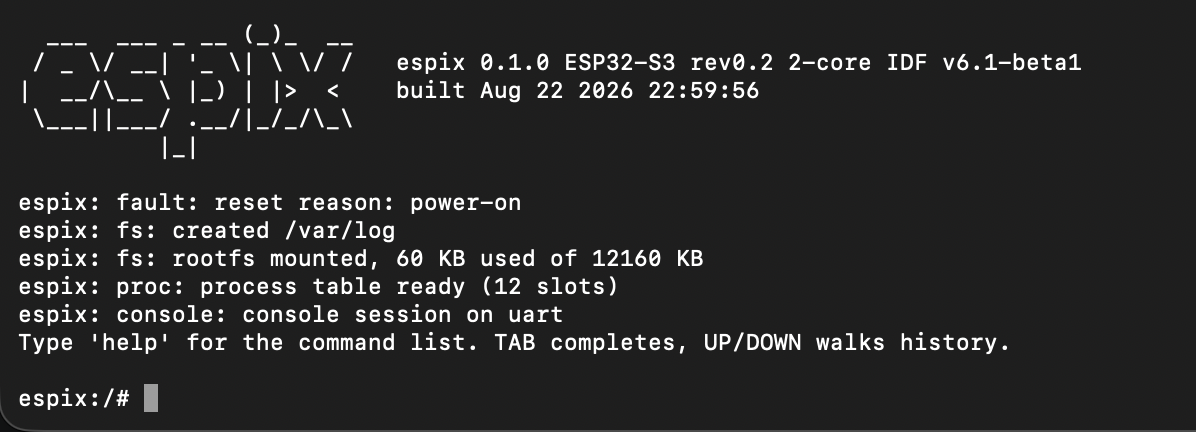
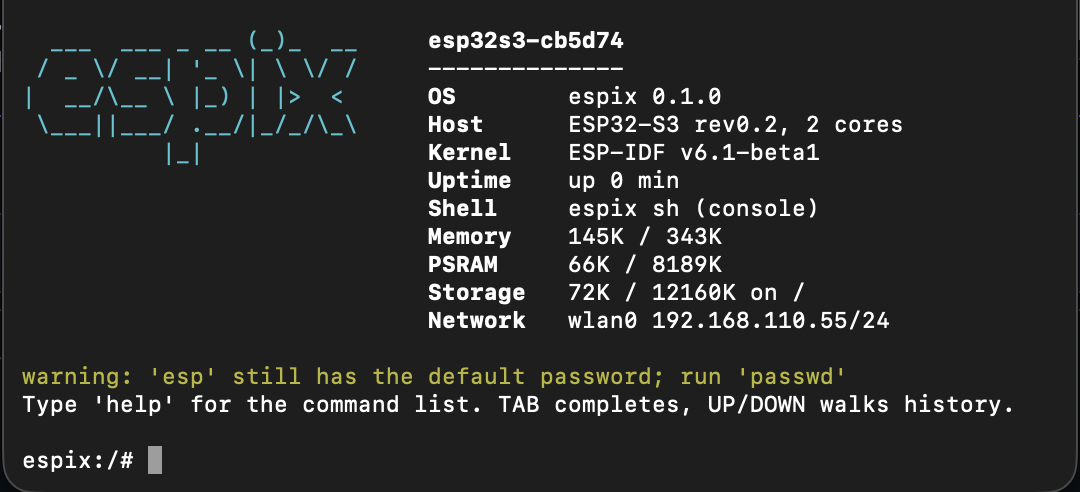
readme: document networking, SSH and how to actually log in
The README predated both the WiFi and SSH milestones, so it described a
device you could only reach over a serial cable and never said how to get
onto a network or what credentials to use.

Adds a First boot section covering the parts a newcomer cannot guess: that
`wifi connect` both associates and persists to /etc/wifi.conf so later boots
reconnect on their own; that the hostname is derived from the MAC; that the
shipped account is esp/espix and how to change it; and where the host key
lives so its fingerprint can be checked on first connect.

States plainly what the SSH server is. It is hand-rolled — the only registry
component is GPL-or-commercial, which would have set the licence of every
firmware image built on espix — and it has not been audited. Fine on a
trusted LAN, not fine port-forwarded, and the host private key sits in
plaintext on LittleFS. Better said here than discovered later.

Status and roadmap catch up: ~23 commands is now ~32, networking and a shell
over it are done, and the reentrant line editor is named as the next item
along with why linenoise cannot be shared between the two transports.

The banner now shows the real greeting, so the duplicate copy of it in the
prose is dropped and the alt text describes the image.

Changed region(s): [[0.0, 0.0602, 0.9472, 0.8426], [0.0, 0.8727, 1.0, 1.0], [0.9778, 0.0, 1.0, 0.9329]]

diff --git a/README.md b/README.md
@@ -1,5 +1,5 @@
 <p align="center">
-  <img src="docs/banner.png" alt="Repository Header Banner" width="80%" max-width="800px">
+  <img src="docs/banner.png" alt="espix login greeting: ASCII logo beside OS, host, uptime, memory, storage and network" width="80%" max-width="800px">
 </p>
 
 # espix
@@ -18,11 +18,20 @@ environment purpose-built for ESP-IDF.
 
 Early, but running on hardware. Verified on an ESP32-S3 (16MB flash,
 8MB octal PSRAM) with ESP-IDF v6.1-beta1: LittleFS mounted as the real
-`/`, a transport-agnostic shell with ~23 commands, a process table, and
+`/`, a transport-agnostic shell with ~32 commands, a process table, and
 — the point of the exercise — an app cross-compiled on a PC, deployed
 as a file, and loaded and executed at runtime by the ELF loader, with
 argv and an exit status. Files created on the device survive a reboot
 and a firmware reflash.
+
+Networking works: WiFi station comes up as `wlan0`, takes a DHCP lease,
+installs a default route, and `ping` resolves names. On top of it runs an
+SSH server, so `ssh esp@esp32s3-cb5d74` reaches the same shell the serial
+console gets — same commands, same output, and an app's `printf()` lands
+in the session that ran it rather than on the console. See
+[First boot](#first-boot) to get there, and read
+[the note on the SSH server](#a-word-on-the-ssh-server) before putting one
+on an untrusted network.
 
 Fault interception is wired but only *reports*; it does not yet keep the
 system up (see [Crash Handling &
@@ -153,11 +162,17 @@ display, networking) still to be finalized as the design matures.
    on hardware with argv and an exit status.
 4. Make a crashing app actually not crash the system (the reaper, held
    locks, per-process resource ownership).
-5. Networking. WiFi station is up: `wlan0` appears in `ip addr`, takes a
-   DHCP lease, installs a default route, and `ping` works by name and by
-   address. Ethernet (P4/S31) and USB-NCM are next. Then SSH/SCP — which
-   is what turns the session abstraction into more than one session.
-6. `top`/`htop`-style live stats, a fuller command surface, pipes and
+5. ~~Networking, and a shell over it.~~ Done for WiFi: `wlan0` appears in
+   `ip addr`, takes a DHCP lease, installs a default route, `ping` works
+   by name and by address, and an SSH server serves the same shell as the
+   console. Ethernet (P4/S31) and USB-NCM are still to come, as are
+   SCP/SFTP and publickey authentication.
+6. A reentrant line editor, replacing linenoise on both transports.
+   linenoise reads and writes raw file descriptors and keeps its history
+   and callbacks in file-scope statics, so it cannot serve a connection
+   whose bytes arrive inside encrypted SSH packets — which is why an SSH
+   session today has no history or tab completion.
+7. `top`/`htop`-style live stats, a fuller command surface, pipes and
    job control.
 
 ## Building
@@ -185,6 +200,92 @@ Board assumptions live in
 [sdkconfig.defaults.esp32s3](sdkconfig.defaults.esp32s3) (16MB flash,
 8MB octal PSRAM) and [partitions.csv](partitions.csv) (4MB app,
 11.9MB rootfs).
+
+## First boot
+
+Flash the firmware and the rootfs together the first time, then watch it
+come up:
+
+```bash
+idf.py -p <port> flash storage-flash monitor
+```
+
+Boot prints kernel messages, then the console session prints the greeting at
+the top of this README — with `Network` reading `not connected` until you
+join one.
+
+`help` lists every command; `motd` reprints that block at any time.
+
+### Joining a WiFi network
+
+Credentials live in `/etc/wifi.conf` on the rootfs. Set them once, from the
+serial console:
+
+```
+espix:/# wifi connect <ssid> <passphrase>
+```
+
+That associates immediately *and* writes the file, so every later boot
+reconnects on its own — retrying with a backoff, and giving up rather than
+looping if the AP rejects the passphrase. `wifi status` shows where it got
+to, `wifi scan` lists what is nearby, and `ip addr` / `route` report the
+result. The file is plain `key=value` and editing it by hand does what you
+would expect.
+
+The hostname is derived from the MAC address — `esp32s3-cb5d74` — so it
+matches what the device already announces over DHCP. `hostname <name>`
+changes it.
+
+### Logging in over SSH
+
+`sshd` listens on port 22 from boot. Once `ip addr` shows an address:
+
+```bash
+ssh esp@esp32s3-cb5d74          # or the IP; .lan works if your router adds it
+```
+
+**The shipped account is `esp`, password `espix`.** Both the console and an
+SSH session say so on every login until you change it:
+
+```
+espix:/# passwd esp <new-password>
+```
+
+Passwords are stored in `/etc/passwd` as PBKDF2-SHA256 with a per-user salt,
+never in plaintext — unlike the WiFi passphrase, a login password is likely
+reused somewhere else.
+
+The host key is generated on first boot into `/etc/ssh/host_ecdsa_key`, and
+its fingerprint is printed on the serial console so you can compare it
+against what your client shows the first time it connects:
+
+```
+espix: sshkey: host key SHA256:Sts8sx9+JuATlAMgo/iW1qYjBTbel+wXeXb7E2V2xhg
+```
+
+One session at a time for now. The serial console stays independent, so you
+can watch kernel messages there while working over SSH — `dmesg` is how a
+remote user reads them, exactly as on Linux.
+
+### A word on the SSH server
+
+espix implements SSH itself rather than linking an existing one. The only
+SSH server on the ESP component registry is GPL-or-commercial, which would
+have forced the licence of any firmware image built on espix; mbed TLS was
+already linked and its PSA Crypto API covers everything the protocol needs.
+
+What that buys is one algorithm per role — `curve25519-sha256`,
+`ecdsa-sha2-nistp256`, `aes256-ctr`, `hmac-sha2-256-etm@openssh.com` — with
+the Terrapin (CVE-2023-48795) mitigation, and no negotiation logic to get
+wrong. Password authentication only; no publickey, no SCP/SFTP, no rekeying,
+so a session running for hours will eventually be dropped.
+
+What it costs is stated plainly: **this is a hand-rolled implementation of a
+security protocol and it has not been audited.** That is a reasonable trade
+on a trusted LAN and a bad one facing the internet — do not port-forward it.
+The host private key is also stored in plaintext on LittleFS, consistent
+with espix's trusted-code model: anyone who can read the filesystem can
+impersonate the device.
 
 ## License
 
